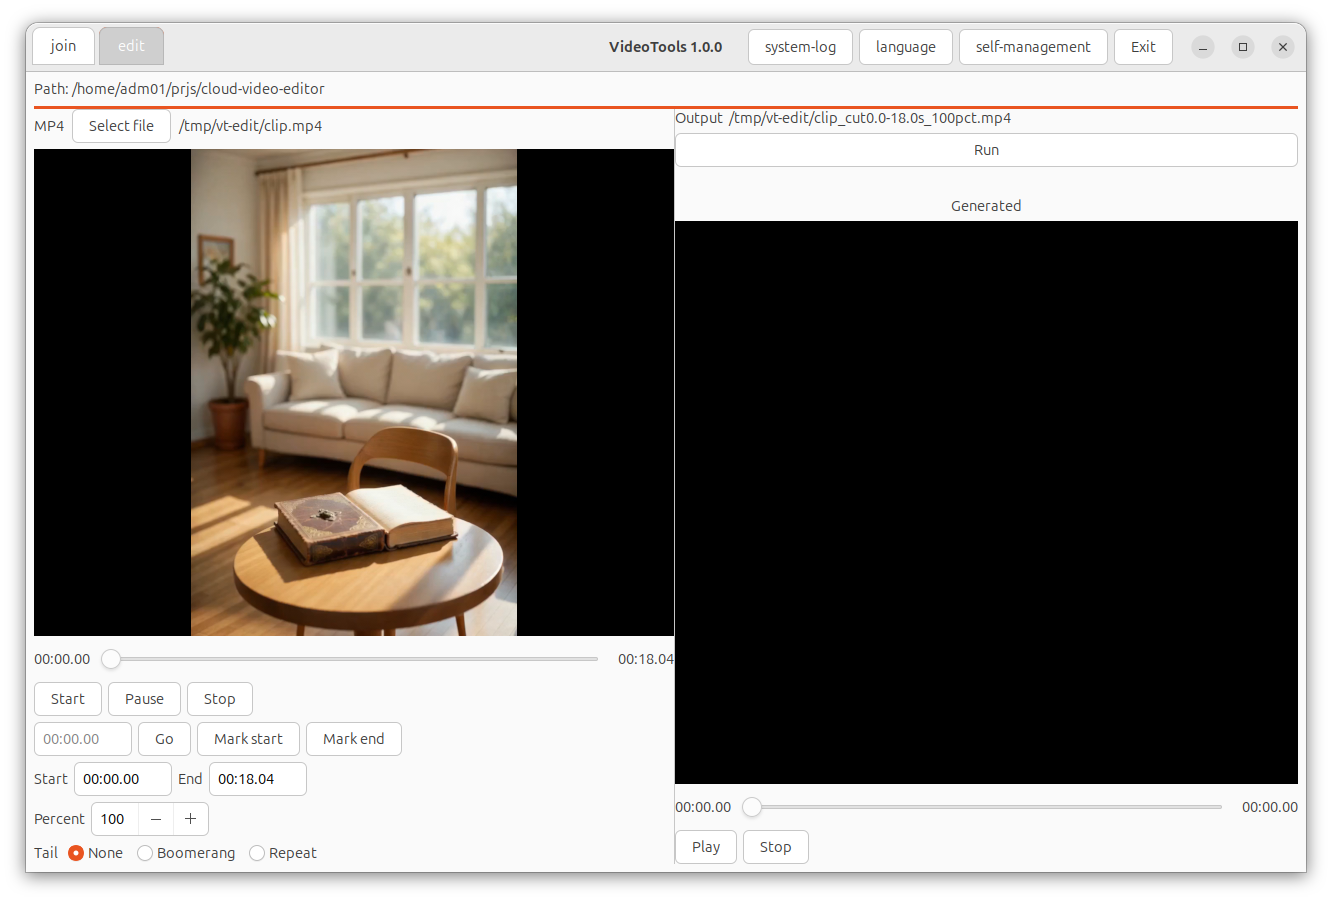
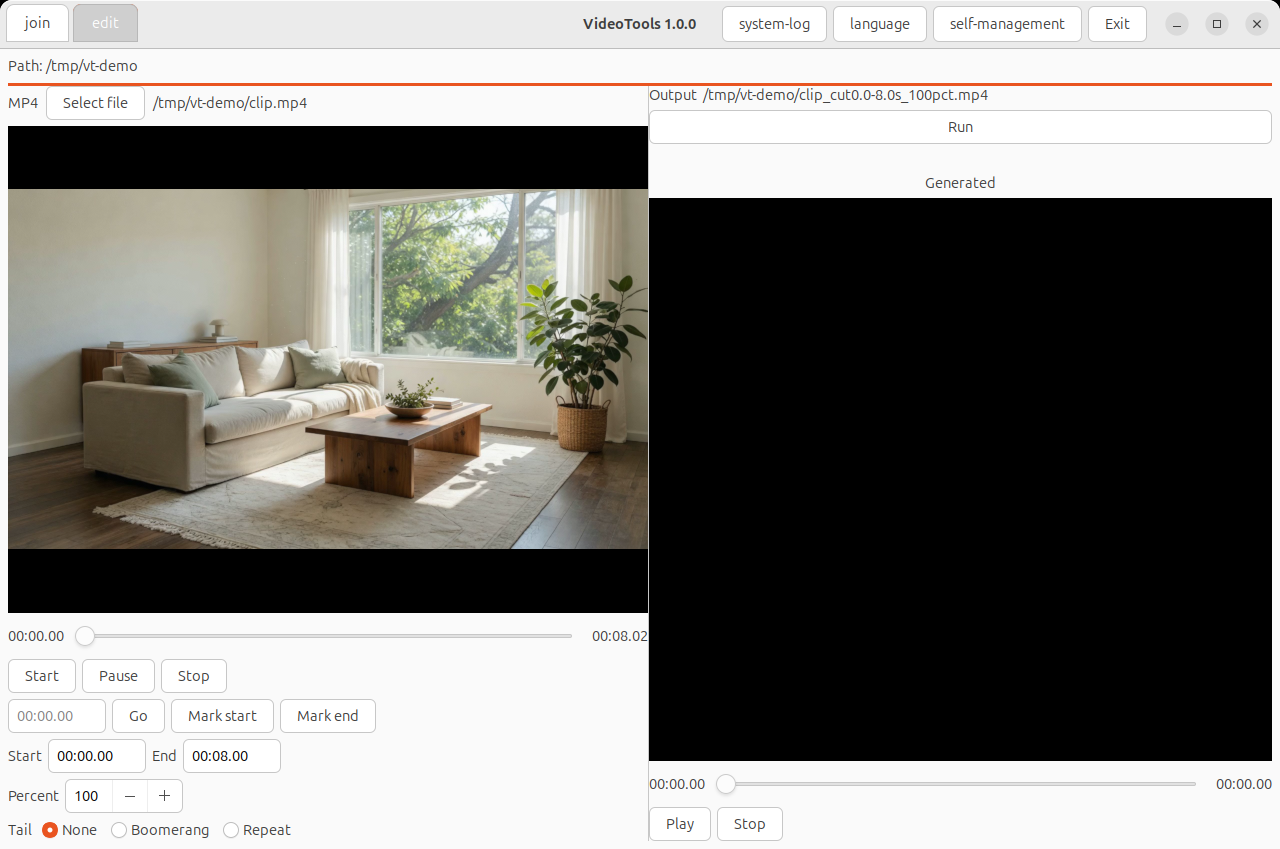
Refresh the README pictures of the edit and join pages.
The edit picture is the current window after a file is chosen. The join picture is the current window before any file is chosen. Version stays 1.0.0.

diff --git a/CHANGELOG.md b/CHANGELOG.md
@@ -16,6 +16,7 @@ and this project adheres to [Semantic Versioning](https://semver.org/spec/v2.0.0
 
 ### Changed
 - Product identity is VideoTools `1.0.0` (`project.h`, `project.ini`). A bare start on a terminal with a display opens the picture window. With no display, or when standard output is not a terminal, that start shows the menu. With no terminal on standard input, it prints help.
+- README pictures show the current edit page after a file is chosen, and the join page before any file is chosen.
 - `--gemini` opens the inherited wilgat shell. `log`, `luascript`, and `logcheck` still open that shell. `--window` is an error.
 - The shell runtime id is `VideoTools`. Cookies, userscripts, and logs for that shell use `~/.app/VideoTools/`.
 

diff --git a/README.md b/README.md
@@ -135,4 +135,4 @@ MIT. See [LICENSE.md](LICENSE.md).
 
 ## Last Update
 
-2026-10-11. Version 1.0.0. The picture window, the Windows process host, and the screenshots above are part of this version.
+2026-10-14. Version 1.0.0. The picture window, the Windows process host, and the screenshots above are part of this version.
